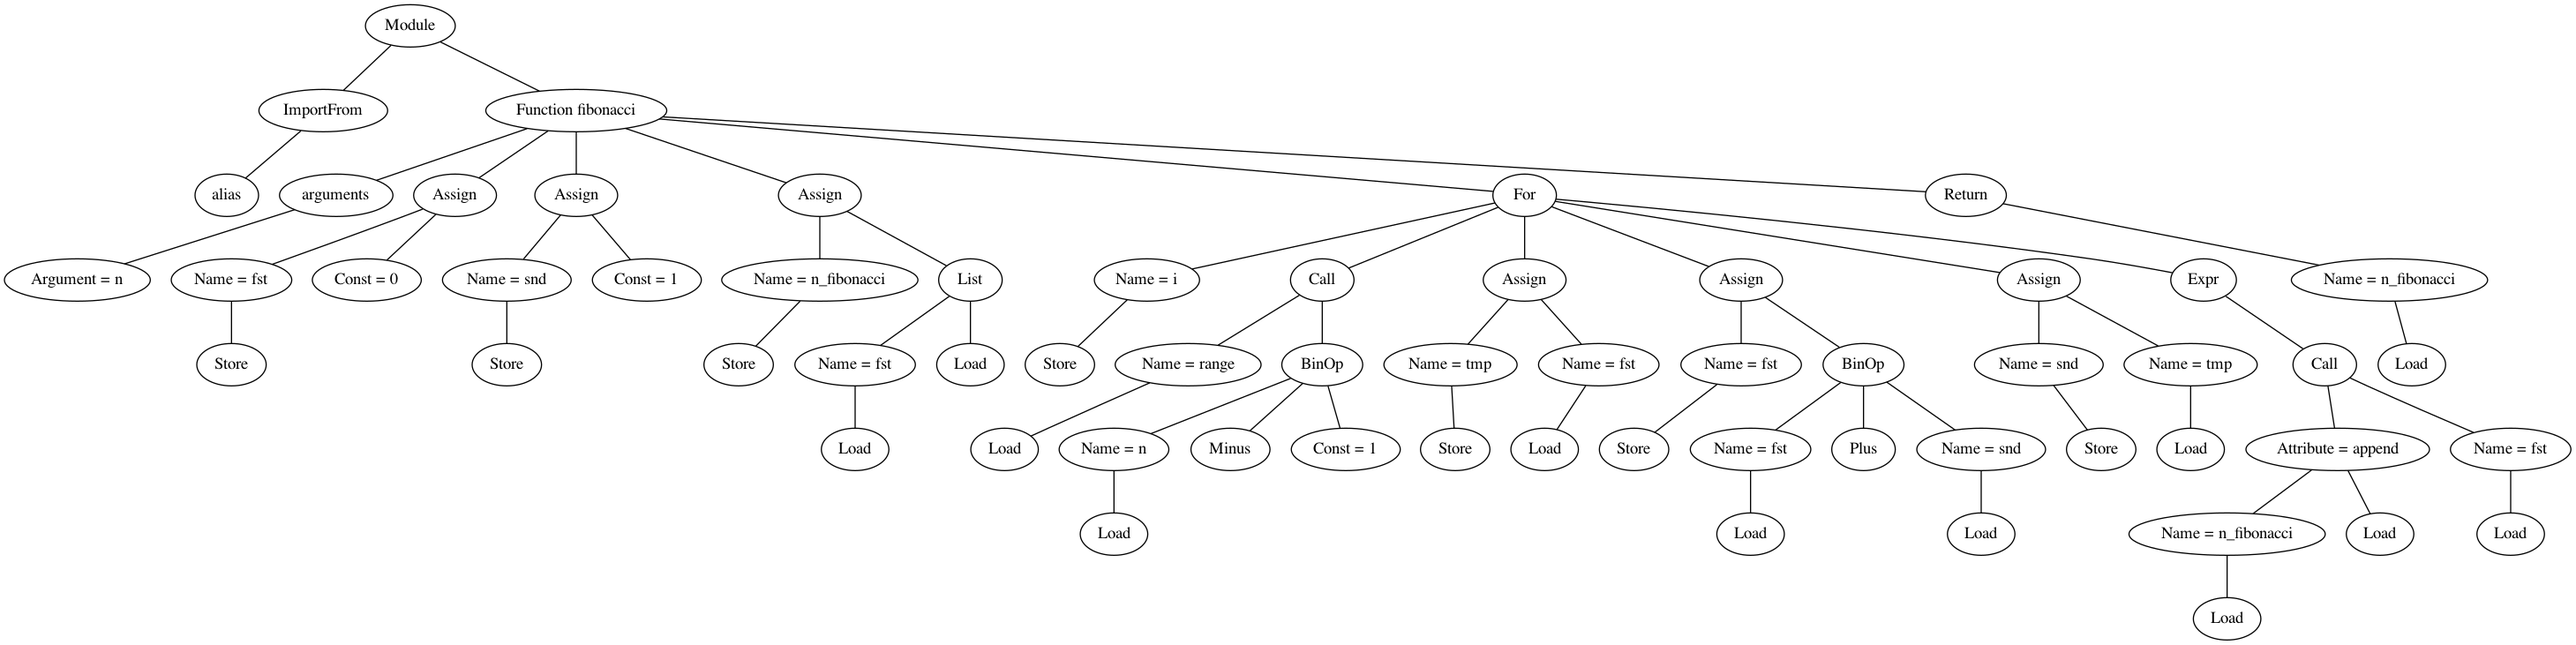
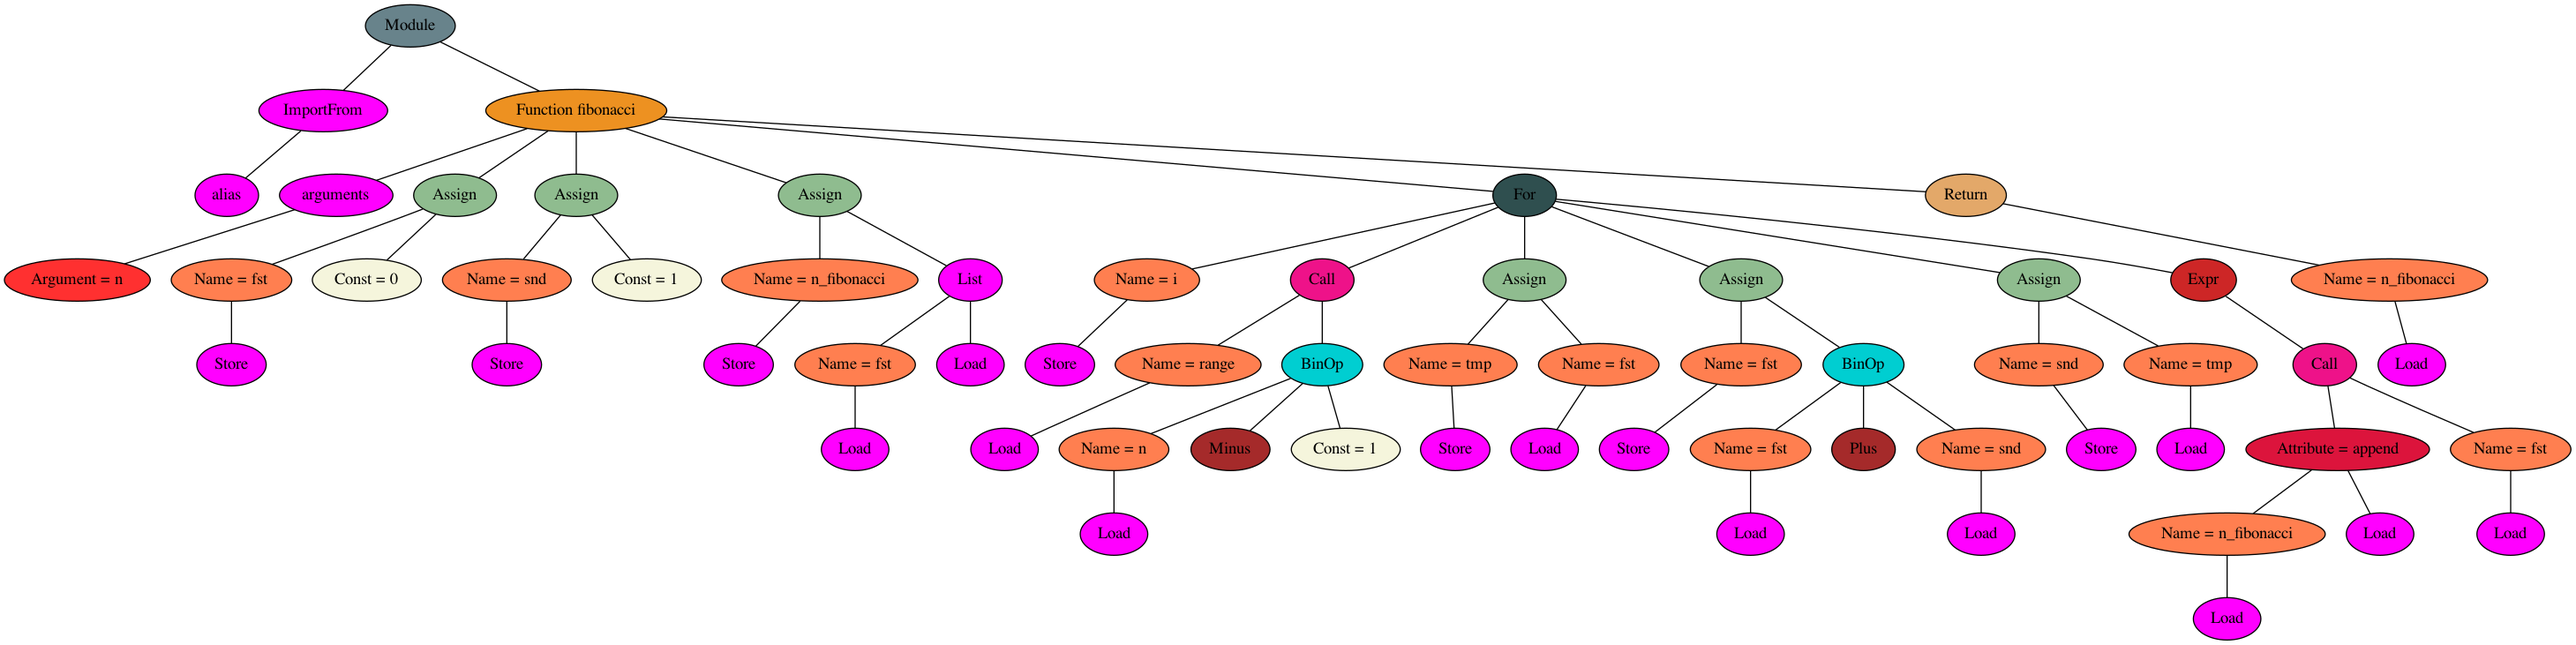
add colors

diff --git a/hw_1/ast_creator.py b/hw_1/ast_creator.py
@@ -18,21 +18,50 @@ class ASTCreator:
     def _build(self, node) -> int:
         current_node = self._last_node
         label = node.__class__.__name__
+        color = '#FF00FF'
         if isinstance(node, ast.Constant):
             label = f"Const = {node.value}"
+            color = '#F5F5DC'
         elif isinstance(node, ast.arg):
             label = f"Argument = {node.arg}"
+            color = '#FF3030'
         elif isinstance(node, ast.Sub):
             label = "Minus"
+            color = '#A52A2A'
         elif isinstance(node, ast.Add):
             label = "Plus"
+            color = '#A52A2A'
+        elif isinstance(node, ast.BinOp):
+            label = "BinOp"
+            color = '#00CED1'
+        elif isinstance(node, ast.Call):
+            label = "Call"
+            color = '#EE1289'
+        elif isinstance(node, ast.Assign):
+            label = "Assign"
+            color = '#8FBC8F'
+        elif isinstance(node, ast.For):
+            label = "For"
+            color = '#2F4F4F'
         elif isinstance(node, ast.FunctionDef):
             label = f"Function {node.name}"
+            color = '#ED9121'
         elif isinstance(node, ast.Name):
             label = f"Name = {node.id}"
+            color = '#FF7F50'
+        elif isinstance(node, ast.Expr):
+            label = f"Expr"
+            color = '#CD2626'
+        elif isinstance(node, ast.Return):
+            label = f"Return"
+            color = '#E3A869'
         elif isinstance(node, ast.Attribute):
             label = f"Attribute = {node.attr}"
-        self.graph.add_node(current_node, label = label)
+            color = '#DC143C'
+        elif isinstance(node, ast.Module):
+            label = f"Module"
+            color = '#68838B'
+        self.graph.add_node(current_node, label = label, fillcolor = color, style = 'filled')
         self._last_node += 1
 
         for _, v in ast.iter_fields(node):
